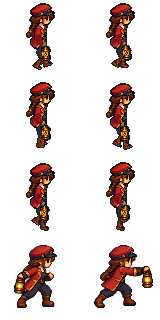
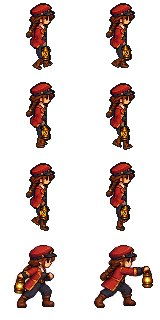
Join Nell's hips and shoulders, flare her coat and correct the left sleeve

diff --git a/src/art/nell-actor.ts b/src/art/nell-actor.ts
@@ -41,19 +41,30 @@ function decal(id:string,texture:PixelTexture,rect:readonly[number,number,number
 }
 
 /** Native jacket flanks extend outside the central bib; exclude idle hands and tools. */
-function jacketSides(source:PixelTexture,direction:ActorDirection,dy:number):SpriteLayer {
+function jacketSides(source:PixelTexture,direction:ActorDirection,dy:number):SpriteLayer[] {
   // Half-open source spans: top, bottom, left, right. These parts stay with the
   // torso while depth-tested arms swing across the restored lapels and hem.
   const spans:Record<ActorDirection,readonly (readonly [number,number,number,number])[]>={
     front:[[27,34,31,33],[34,40,30,33],[40,48,29,33],[27,35,47,49],[35,50,47,50]],
     left:[[34,43,32,34],[40,46,46,50]],
     right:[[38,45,31,34],[45,49,33,38]],
-    back:[[33,42,30,33],[42,49,29,33],[33,43,47,49],[43,49,47,50]],
+    back:[[27,34,31,33],[27,34,47,49],[33,42,30,33],[42,49,29,33],[33,43,47,49],[43,49,47,50]],
   };
   const texture={...source,pixels:new Uint8ClampedArray(source.pixels)};
   for(let y=0;y<source.height;y++)for(let x=0;x<source.width;x++)
     if(!spans[direction].some(([top,bottom,left,right])=>y>=top&&y<bottom&&x>=left&&x<right))texture.pixels[(y*source.width+x)*4+3]=0;
-  return decal('torso',texture,[28,27,23,24],dy,4,direction);
+  if(direction!=='front')return [decal('torso',texture,[28,27,23,24],dy,direction==='back'?4:8,direction)];
+  const layers=[decal('torso',texture,[28,27,23,9],dy,4,direction)];
+  for(let y=36;y<51;y++)for(const side of ['left','right'] as const){
+    const left=side==='left',x=left?28:45,width=left?7:6,flare=Math.round((y-36)/5);
+    const mesh=decal('torso',texture,[x,y,width,1],dy,4,direction);
+    mesh.vertices=[[x,y],[x+width,y],[x+width,y+1],[x,y+1]].map(([sx,sy])=>{
+      const weight=left?(x+width-sx)/width:(sx-x)/width;
+      return viewPoint(sx+(left?-1:1)*flare*weight,sy+dy,4,direction);
+    });
+    layers.push(mesh);
+  }
+  return layers;
 }
 
 interface SkinVertex { point:Point3;u:number;v:number }
@@ -90,6 +101,16 @@ function rounded(id:string,center:Point3,radii:readonly[number,number,number],co
       return {point:{x:center.x+Math.cos(angle)*radii[0]*ring*scale,y:center.y+Math.sin(angle)*radii[1]*ring*scale,z:center.z+Math.cos(v*Math.PI)*radii[2]*scale},u:0,v:0};});
   });
   return surface(id,rings,color);
+}
+
+/** A continuous trouser seat overlaps the waist and both upper thigh caps. */
+function pelvis(pose:ReferencePose,texture:PixelTexture,direction:ActorDirection):SpriteLayer {
+  const {hipHalfWidth,legWidth}=pose.proportions,width=hipHalfWidth+3.5*legWidth;
+  const stations=[[5,.78,2.4],[3.5,.98,3],[1,1,3.2],[-1.5,.9,2.6],[-3,.65,1.9]] as const;
+  return surface('torso',stations.map(([z,full,depth],row)=>Array.from({length:ROUND_SIDES},(_,i)=>{
+    const angle=i/ROUND_SIDES*Math.PI*2,c=Math.cos(angle),s=Math.sin(angle);
+    return {point:{x:c*width*full,y:s*depth,z:pose.hipHeight+z},u:(acrossView(direction,c,s)+1)/2*texture.width,v:row/(stations.length-1)*texture.height};
+  })),0xffffff,texture);
 }
 
 function shoe(side:'left'|'right',foot:FootPose,texture:PixelTexture,direction:ActorDirection,scale:number,widthScale:number):SpriteLayer {
@@ -133,9 +154,10 @@ export function nellLayers(pose:ReferencePose,direction:ActorDirection,textures:
     const hair=braid&&r>g*1.25&&g>r*.32&&b<g*.85;
     if(!hair)head.pixels[at+3]=0;
   }
-  const trousers=patch(source,37,45,6,10,(r,g,b)=>r<g*1.4&&b>r*.8),sleeve=patch(source,direction==='right'?33:29,30,4,10,(r,g,b)=>r>g*1.7&&r>b*1.4&&r>65),boot=patch(source,37,58,6,9,(r,g,b)=>r>g*1.2&&g>b*1.1);
+  const sleeveRegions:Record<ActorDirection,readonly[number,number,number,number]>={front:[47,29,4,9],left:[39,29,4,9],right:[35,29,4,9],back:[28,29,4,9]};
+  const trousers=patch(source,37,45,6,10,(r,g,b)=>r<g*1.4&&b>r*.8),sleeve=patch(source,...sleeveRegions[direction],(r,g,b)=>r>g*1.7&&r>b*1.4&&r>65),boot=patch(source,37,58,6,9,(r,g,b)=>r>g*1.2&&g>b*1.1);
   // Native Nell has tall boots below the knee, rather than full-length trousers.
-  const layers:SpriteLayer[]=[];
+  const layers:SpriteLayer[]=[pelvis(pose,trousers,direction)];
   for(const side of ['left','right'] as const){
     const leg=pose[side],arm=pose.arms[side],inside=side==='right'?-1:1,{armWidth,legWidth}=pose.proportions;
     layers.push(limb(`${side}-thigh`,leg.hip,leg.knee,[4,3.5],[2.6,2.5],trousers,direction,legWidth),
@@ -146,7 +168,7 @@ export function nellLayers(pose:ReferencePose,direction:ActorDirection,textures:
       rounded(`${side}-hand`,{x:arm.grip.x+inside*1.45*armWidth,y:arm.grip.y+.7,z:arm.grip.z+.2},[.8,.9,1.05],0xb38758,armWidth));
   }
   const dy=NELL_PROPORTIONS.hipHeight-pose.hipHeight,bodyRect:readonly[number,number,number,number]=direction==='front'||direction==='back'?[33,27,14,22]:[34,27,12,22];
-  layers.push(decal('torso',source,bodyRect,dy,4,direction),jacketSides(source,direction,dy),decal('head',head,[20,0,40,43],dy,7,direction));
+  layers.push(decal('torso',source,bodyRect,dy,direction==='left'||direction==='right'?8:4,direction),...jacketSides(source,direction,dy),decal('head',head,[20,0,40,43],dy,7,direction));
   layers.push(...lantern(pose.weapon!,source,direction));
   return layers;
 }

diff --git a/assets/characters/nell-rig.md b/assets/characters/nell-rig.md
@@ -4,7 +4,7 @@
 
 Nell does not use the mannequin's rectangular limb, hand, foot or weapon meshes. Her clothing is built from rounded cross-sections with separate shoulder, upper-arm, elbow, forearm, thigh, calf and ankle contours. Rounded ends overlap at joints. Sleeves and trouser legs taper toward wrists and ankles. Gloves have rounded palms and separate thumbs. Boots have a narrow heel, raised instep, curved sole and a low rounded toe; both contact endpoints use the configured heel/toe pivots. These contours affect only the artwork, not bone lengths or foot contact timing.
 
-The four existing `public/art/nell*.png` idle actors supply independent directional skins. The exporter prepares four 80 x 80 skins in `assets/characters/nell-skin/`, copying source RGB and setting alpha to 0 or 255 at the existing 128 threshold. Both the workshop and exporter use these canonical pixels, avoiding canvas premultiplication rounding at partially transparent edges. Head/cap/face pixels keep their native size and original resting placement, moving together vertically with the hips. Masked braid pixels remain attached to the head; the central jacket/overalls retain the original torso details. Moving upper arms, forearms, thighs, shins and boots are textured from small garment patches. Transparent samples in these solid material patches use the nearest valid garment sample.
+The four existing `public/art/nell*.png` idle actors supply independent directional skins. The exporter prepares four 80 x 80 skins in `assets/characters/nell-skin/`, copying source RGB and setting alpha to 0 or 255 at the existing 128 threshold. Both the workshop and exporter use these canonical pixels, avoiding canvas premultiplication rounding at partially transparent edges. Head/cap/face pixels keep their native size and original resting placement, moving together vertically with the hips. Masked braid pixels remain attached to the head; the central jacket/overalls retain the original torso details. Moving upper arms, forearms, thighs, shins and boots are textured from small garment patches. Transparent samples in these solid material patches use the nearest valid garment sample. Sleeve material patches are registered independently for each view; the left view samples the red upper sleeve rather than the dark edge of the shirt. A rounded trouser pelvis joins the waist to both upper thigh caps, overlapping them through the complete cycle. It belongs to the torso layer.
 
 The lantern uses the original per-view native artwork, with a registered source grip and a mask excluding adjacent clothing. Its textured plane attaches at the right grip and rotates around it with the weapon's pitch. Its existing brass frame, glass, flame and handle retain the source's pixel shapes instead of inheriting the placeholder's box geometry. Depth-buffer occlusion hides the far-side tool naturally. No direction is mirrored.
 
@@ -18,4 +18,4 @@ Run `node scripts/export-nell-animation.mjs` to bake all four six-frame walks in
 
 Nell has full overall thighs, substantial boot shafts and broader rounded sleeves/gloves. Her feet keep their compact heel-to-toe length with a wider upper. Shoulder spacing and 8/7-pixel arm bones preserve a visible arm silhouette; carrying lift bends the longer right arm while retaining the lantern height. These character-specific widths are independent of the mannequin and do not change her compact hip/head height.
 
-The jacket includes registered native side-panel spans in addition to the central bib/torso crop. These preserve the directional lapels, lower sides and hem without including idle hands or lantern pixels. All panels belong to the `torso` layer and move with the same hip offset; normal depth testing lets moving arms cover them. Do not narrow the jacket to the central rectangle when changing limb proportions.
+The jacket includes registered native side-panel spans in addition to the central bib/torso crop. These preserve the directional lapels, lower sides and hem without including idle hands or lantern pixels. Front panel geometry widens toward the hem in native row bands. Back panels include the shoulder joins as well as the lower flanks. All panels belong to the `torso` layer and move with the same hip offset; profile coat depth covers the pelvis while the near arm can cover the coat. Do not narrow the jacket to the central rectangle when changing limb proportions.

diff --git a/AGENTS.md b/AGENTS.md
@@ -50,4 +50,4 @@ The reference supplies motion for Nell, not her artwork solids. Nell has indepen
 
 The reference rig accepts explicit `RigProportions` with independent mannequin/Nell settings in Animation. Keep foot contacts, floor guides, stride and all exported joints consistent with the selected measurements. Reject unreachable combinations instead of stretching bones or producing NaN. Nell uses the compact preset (9-pixel legs, 8/7-pixel arms, 65% foot geometry, 24-pixel stride); preserve her native head/jacket artwork and original resting placement. Proportion controls are session-only; pose JSON includes the complete configuration. Never import the authoring rig into production to obtain the stride constant.
 
-Nell's native jacket side panels are separate registered torso spans, not part of the moving sleeves. Preserve the front lapels and directional coat tails/hem alongside the central bib, with the same hip offset and arm occlusion. Keep the accepted proportions intact when repairing clothing masks.
+Nell's native jacket side panels are registered torso spans, not moving sleeves. Preserve the flared front hem, back shoulder joins and directional coat tails alongside the central bib, with the same hip offset and arm occlusion. Her rounded trouser pelvis overlaps the waist and both thigh roots; keep that continuous connection in all views. Register sleeve material patches per direction, sampling actual red fabric (especially in the left profile). Keep the accepted proportions intact when repairing clothing.
